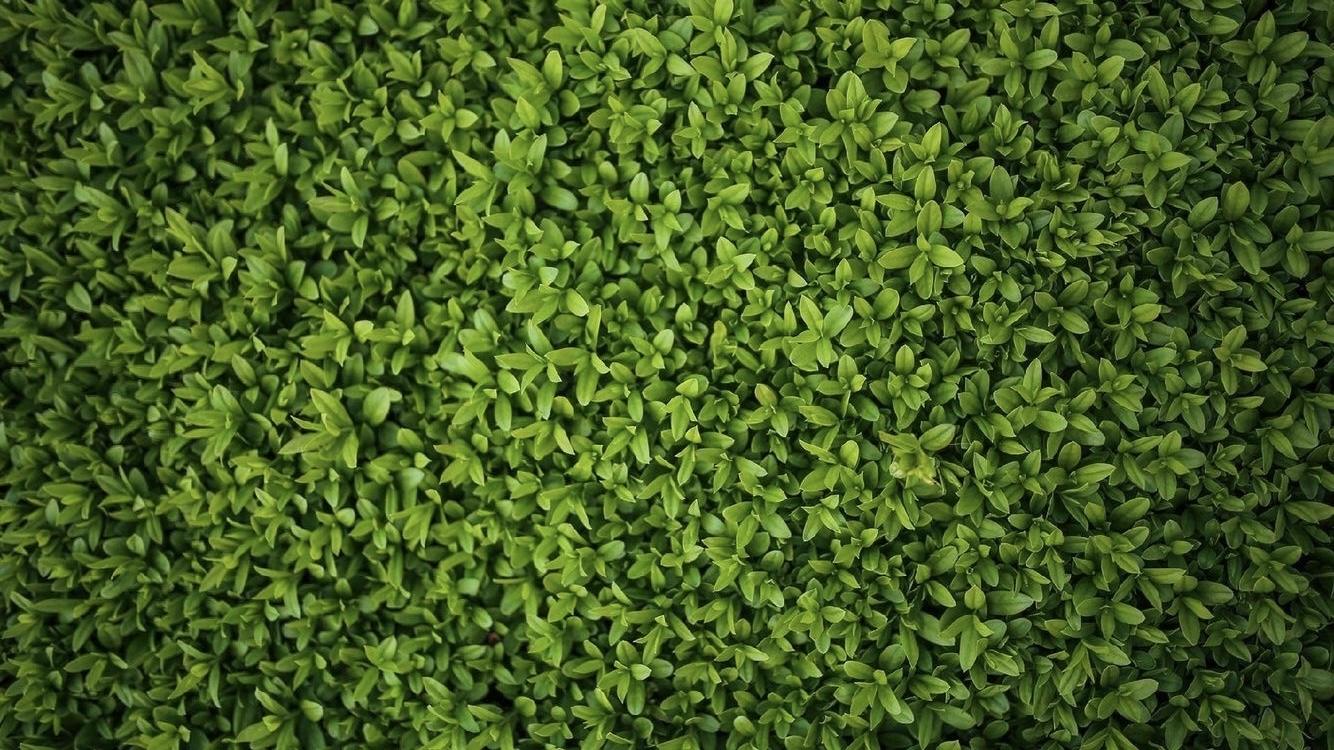
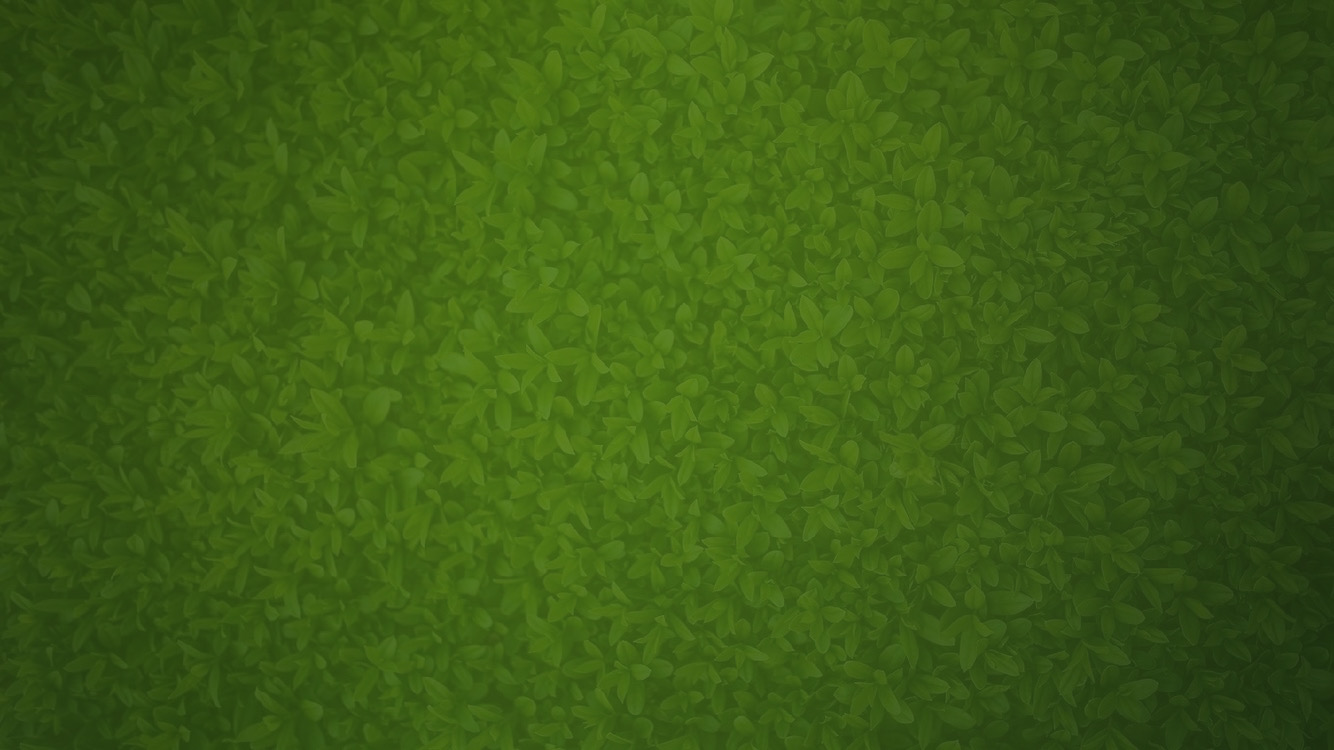
update

diff --git a/Ecology/css/Estyle.css b/Ecology/css/Estyle.css
@@ -1,17 +1,11 @@
-body{
-	background-image: url("images/background.jpg");
-	/*filter: blur(5px);*/
-	background-size: cover;
-	background-repeat: no-repeat;
-}
 header.head-page {
 	display: flex;
 	justify-content: space-between;
-    background-color: rgb(224, 245, 171) !important;
+	background-color: rgb(91, 129, 37) !important;
 	height: 80px;
 	align-items: center;
 	font-size: 25px;
-	border-bottom: 3px #05511e solid;
+	border-bottom: 3px #083503 solid;
 }
 
 .blurred{
@@ -44,4 +38,25 @@ header .logotip img {
 	display: block;
 	height: 20px;
 	width: 30px;
+}
+.block-of-profile .log-sing{
+	box-shadow: inset 0px 1px 3px 0px #91b8b3;
+	background: linear-gradient(to bottom, #14a404 5%, #049c20 100%);
+	background-color: #768d87;
+	border-radius: 13px;
+	border: 1px solid #695e56;
+	display: block;
+	cursor: pointer;
+	color: #ffffff;
+	font-family: Arial;
+	text-decoration: none;
+	text-shadow: 0px -1px 0px #19a63d;
+}
+.block-of-profile .log-sing:hover {
+	background: linear-gradient(to bottom, #5bfb49 5%, #43d83d 100%);
+	background-color: #fdf632;
+}
+.block-of-profile .log-sing:active {
+	position: relative;
+	top: 2px;
 }

diff --git a/Ecology/css/Ebutton.css b/Ecology/css/Ebutton.css
@@ -1,6 +1,6 @@
 .map-button {
 	box-shadow: inset 0px 1px 3px 0px #91b8b3;
-	background: linear-gradient(to bottom, #ece328 5%, #eecc0d 100%);
+	background: linear-gradient(to bottom, #e5c214 5%, #f1ad0d 100%);
 	background-color: #768d87;
 	border-radius: 13px;
 	border: 1px solid #695e56;
@@ -13,7 +13,7 @@
 	text-shadow: 0px -1px 0px #19a63d;
 }
 .map-button:hover {
-	background: linear-gradient(to bottom, #f6ff00 5%, #ffd900 100%);
+	background: linear-gradient(to bottom, #eef917 5%, #fad91e 100%);
 	background-color: #fdf632;
 }
 .map-button:active {
@@ -22,7 +22,7 @@
 }
 .chat-button {
 	box-shadow: inset 0px 1px 3px 0px #91b8b3;
-	background: linear-gradient(to bottom, #45f4a2 5%, #59d49f 100%);
+	background: linear-gradient(to bottom, #62f445 5%, #74d459 100%);
 	background-color: #768d87;
 	border-radius: 13px;
 	border: 1px solid #566963;
@@ -35,7 +35,7 @@
 	text-shadow: 0px -1px 0px #2b665e;
 }
 .chat-button:hover {
-	background: linear-gradient(to bottom, #00ffb7 5%, #00ffbb 100%);
+	background: linear-gradient(to bottom, #55ff00 5%, #00ff15 100%);
 	background-color: #6c7c7c;
 }
 .chat-button:active {

diff --git a/Ecology/index.html b/Ecology/index.html
@@ -6,12 +6,11 @@
         <link href="css/Estyle.css" rel="stylesheet" />
         <link href="css/Ebutton.css" rel="stylesheet" />
         <style>
-          /*body{
-	          background-image: url("images/background.jpg");
-	          filter: blur(5px);
+          body{
+	          background-image: url("images/background.JPG");
 	          background-size: cover;
 	          background-repeat: no-repeat;
-          }*/
+          }
         </style>
     </head>
     <body>
@@ -22,7 +21,7 @@
             <div class="name">environmental footprint</div>
             <div class="block-of-profile">
               <img src="images/defaltavatar.JPG" alt="" class="defaltavatar" />
-              <button class="log-sing">L/S</button>
+              <button class="log-sing" href="#">L/S</button>
             </div>
           </header>
           <div class="menu-plus-content">
